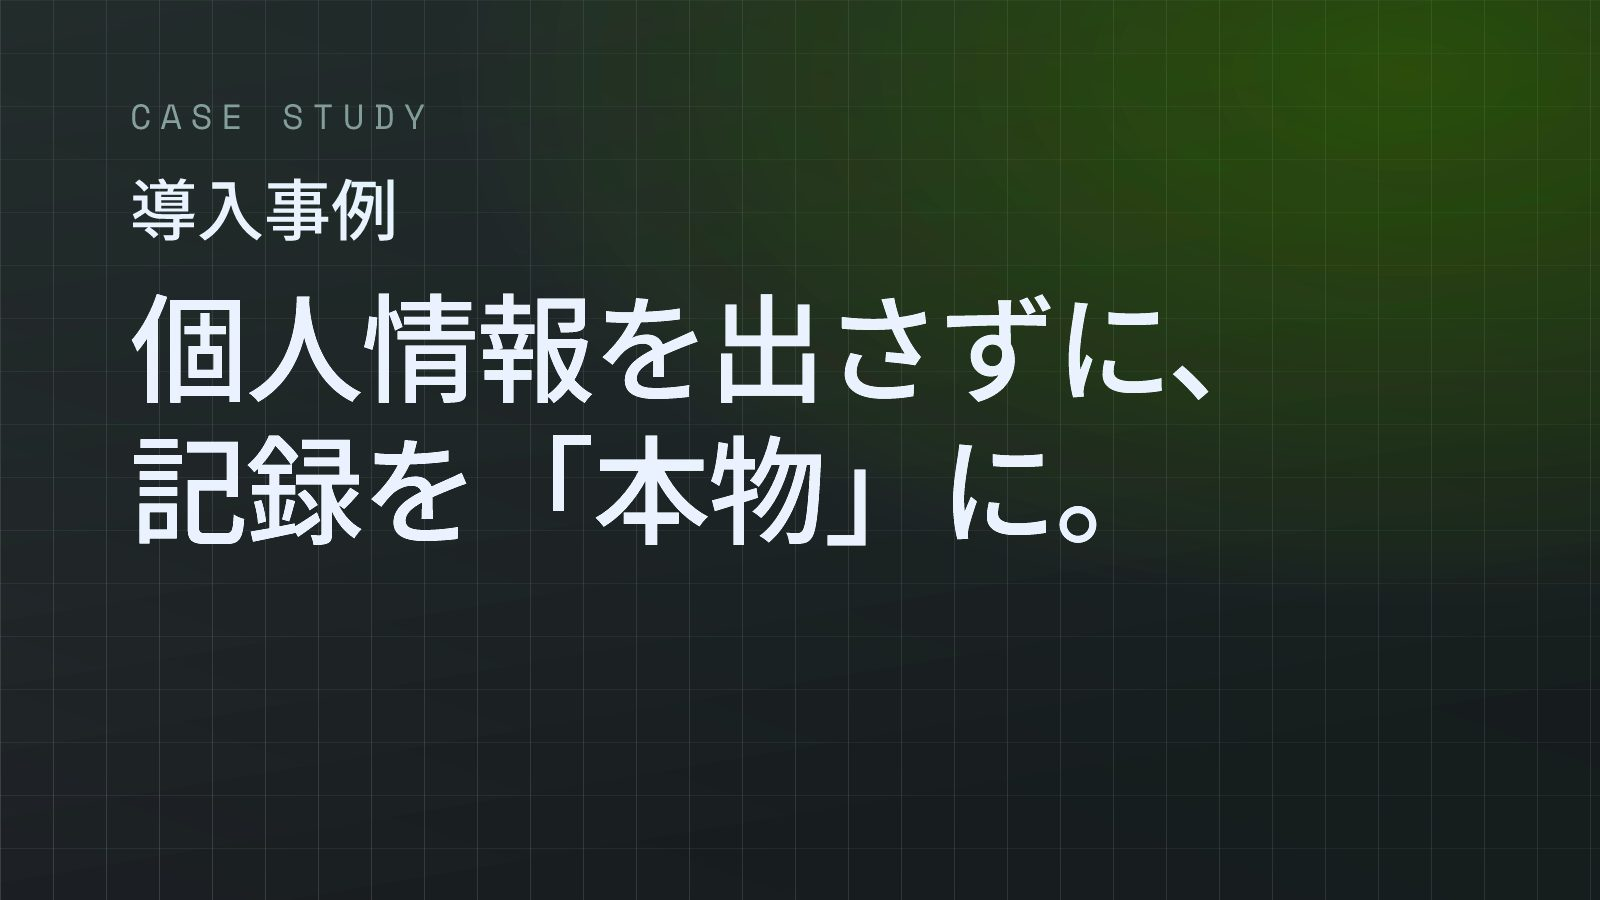
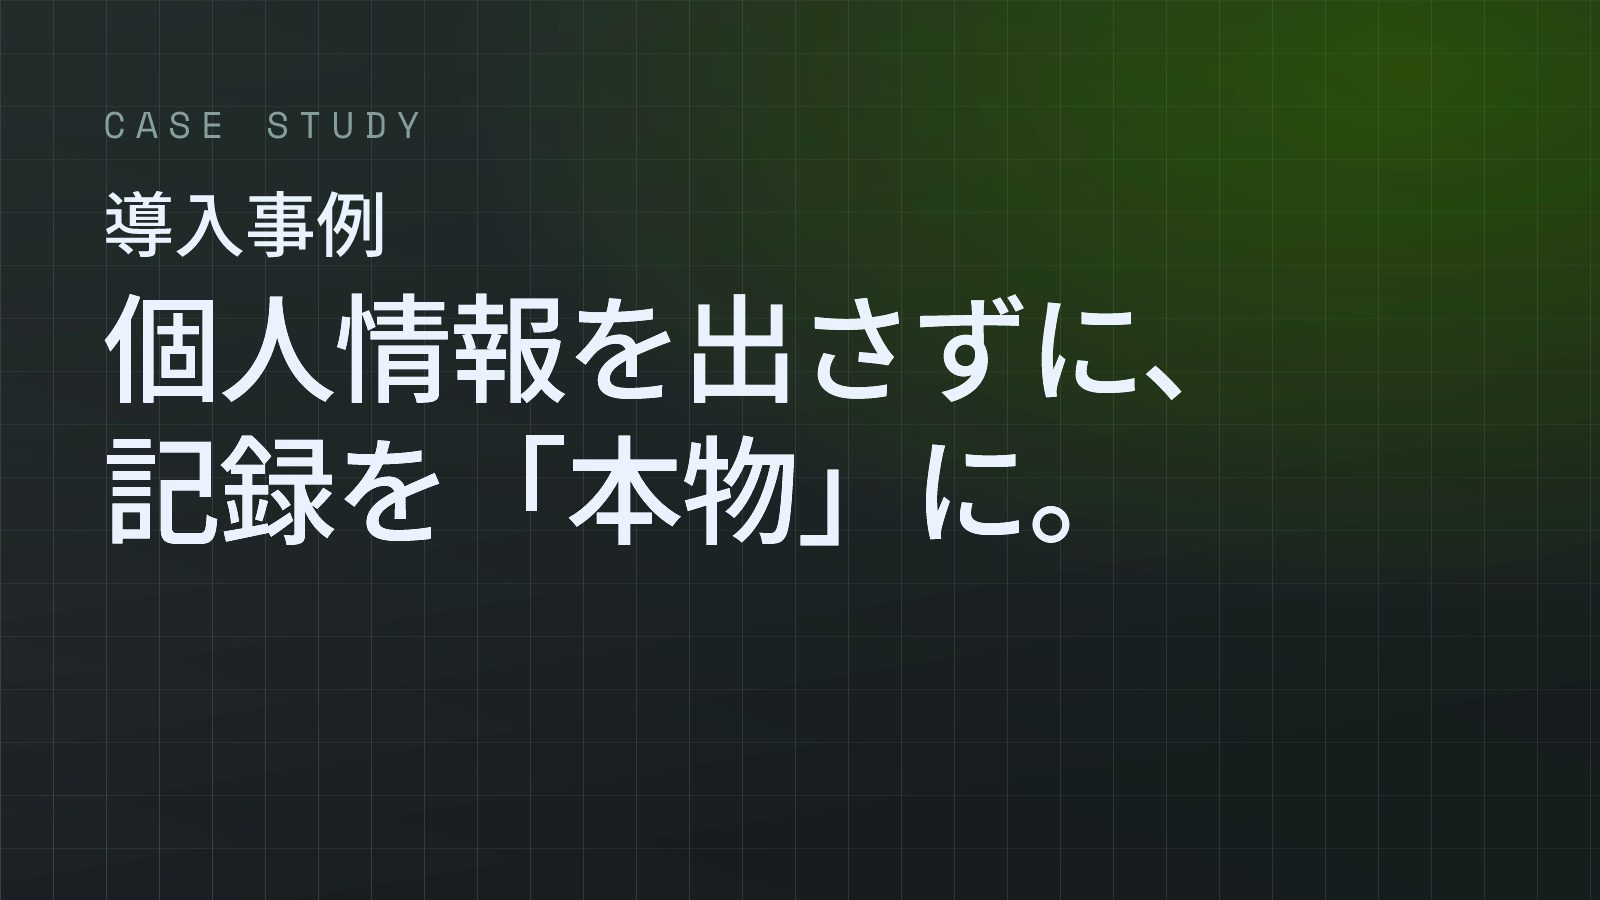
fix(web): 導入事例カバーのラベル位置を Critical Brief に合わせる
並べたときに英字ラベルと和文ラベルの段がずれていた（作者フィードバック）。
原因は2つ。

縦
  Brief（1200×630）の座標を **幅比 1600/1200 = 1.333** で移していた。
  どちらのカバーも枠には**高さ基準**で嵌まる（16:10 でも 16:9 でも横が
  余って切られる）ので、正しくは **高さ比 900/630 = 1.4286**。
  ベースラインを 125→134 / 224→240、級数も 35→37 / 67→71 に直した。

横
  Brief の SVG は `preserveAspectRatio="xMinYMid"` で**左端固定**なのに、
  JPEG は `object-fit:cover` の既定で**中央基準**に切られていた。枠の比が
  変わるとずれ幅も変わるため、画像側の余白では吸収できない。
  導入事例のカバーにだけ `object-position:left center` を当てて左端を固定し
  （`.nc-left` / `.lat-left`）、画像側の左端を Brief と同じ 72×1.4286 ≒ 103 に
  置いた。

検証: カード幅 350px のとき、両カバーとも英字ラベルが左 25.0px・
ベースライン 32.6px に来ることを計算と実画面の双方で確認。

Claude-Session: https://claude.ai/code/session_01MS3jJxSNkfTPA2VeTF2iDH

Changed region(s): [[0.0625, 0.3111, 0.75, 0.6222], [0.0625, 0.1867, 0.25, 0.28], [0.0625, 0.1244, 0.2812, 0.1556]]

diff --git a/packages/web/src/styles/industry-v1.css b/packages/web/src/styles/industry-v1.css
@@ -1155,6 +1155,9 @@
 .indv1 .newscard .cover .nc-photo{position:absolute;inset:0;display:block;z-index:1;}
 .indv1 .newscard .cover .nc-photo img{width:100%;height:100%;object-fit:cover;display:block;
     filter:sepia(.16) saturate(.62) hue-rotate(-8deg) contrast(1.04);}
+/* 導入事例のカバーは Brief の生成カバー（xMinYMid）と版面を揃えているので、
+   中央ではなく左端を固定して切る。 */
+.indv1 .newscard .cover .nc-photo.nc-left img{object-position:left center;}
 .indv1 .newscard .cover .nc-photo::after{content:"";position:absolute;inset:0;
     background:linear-gradient(200deg,rgba(16,22,17,.06) 0%,rgba(16,22,17,.3) 62%,rgba(16,22,17,.52) 100%);}
 .indv1 .newscard .cover .nc-photo::before{content:"";position:absolute;left:0;right:0;top:62%;height:2px;

diff --git a/packages/web/src/styles/top-v47.css b/packages/web/src/styles/top-v47.css
@@ -382,6 +382,9 @@ body:has(main.topx) .lemma-brand-bar{display:none}
 .topx .latimg .lat-photo{position:absolute;inset:0;display:block;z-index:1}
 .topx .latimg .lat-photo img{width:100%;height:100%;object-fit:cover;display:block;
   filter:sepia(.16) saturate(.62) hue-rotate(-8deg) contrast(1.04)}
+/* 導入事例のカバーは Brief の生成カバー（xMinYMid）と版面を揃えているので、
+   中央ではなく左端を固定して切る。 */
+.topx .latimg .lat-photo.lat-left img{object-position:left center}
 .topx .latimg .lat-photo::after{content:"";position:absolute;inset:0;
   background:linear-gradient(200deg,rgba(16,22,17,.06) 0%,rgba(16,22,17,.3) 62%,rgba(16,22,17,.52) 100%)}
 .topx .latimg .lat-photo::before{content:"";position:absolute;left:0;right:0;top:62%;height:2px;
